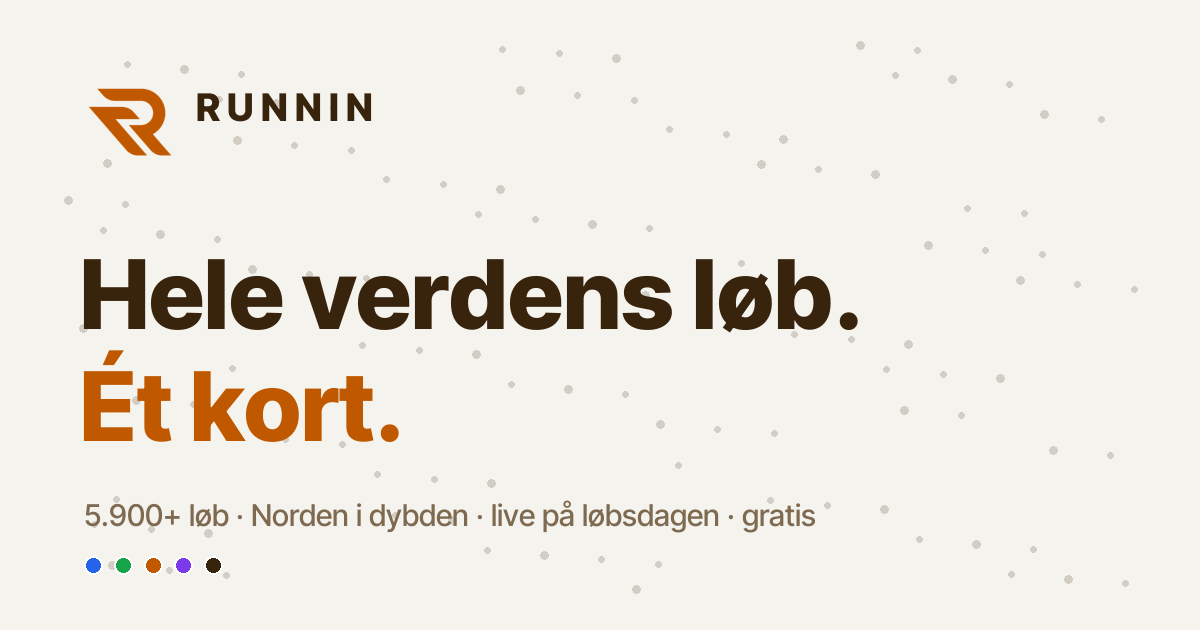
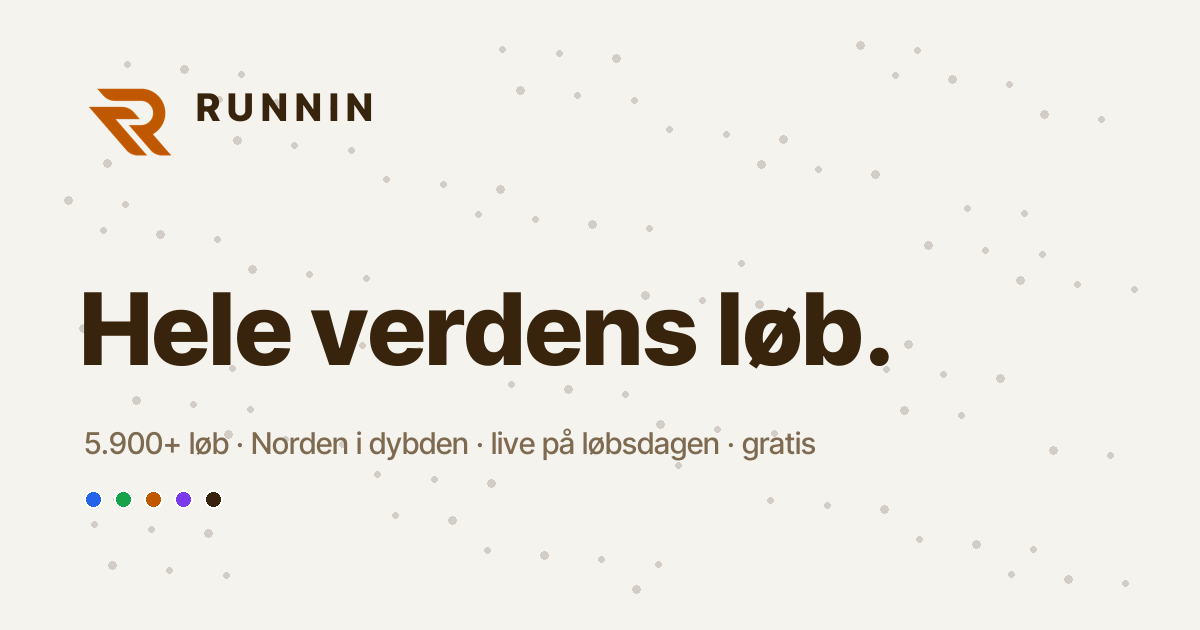
OG-billede uden 'Ét kort.' - én ren overskrift, og:title matcher (?v=3)

Changed region(s): [[0.0617, 0.3921, 0.74, 0.7238], [0.0617, 0.7841, 0.6783, 0.8444], [0.0617, 0.8746, 0.185, 0.9048]]

diff --git a/index.html b/index.html
@@ -6,9 +6,9 @@
 <!-- og-tags FØR alle scripts: WhatsApps preview-parser stopper ved script-tags -->
 <title>Runnin - Find dit næste løb</title>
 <meta name="description" content="Hele verdens løb på ét kort. Find dit næste marathon, halvmarathon, trail eller triathlon - og tilmeld dig på den officielle side.">
-<meta property="og:title" content="Runnin - Hele verdens løb. Ét kort.">
+<meta property="og:title" content="Runnin - Hele verdens løb.">
 <meta property="og:description" content="5.900+ kommende løb med dato, vejr og tilmeldingslink - Norden i dybden, live på løbsdagen, gratis.">
-<meta property="og:image" content="https://runnin.pages.dev/assets/og.png?v=2">
+<meta property="og:image" content="https://runnin.pages.dev/assets/og.png?v=3">
 <meta property="og:image:width" content="1200">
 <meta property="og:image:height" content="630">
 <meta property="og:image:type" content="image/png">

diff --git a/tools/byg-og.py b/tools/byg-og.py
@@ -31,13 +31,12 @@ mark.thumbnail((92, 92))
 img.paste(mark, (84, 76), mark)
 
 d.text((196, 84), "R U N N I N", font=font(38, 800), fill=INK)
-d.text((80, 236), "Hele verdens løb.", font=font(96, 800), fill=INK)
-d.text((80, 348), "Ét kort.", font=font(96, 800), fill=CARAMEL)
-d.text((84, 496), f"{ANTAL} løb · Norden i dybden · live på løbsdagen · gratis", font=font(30, 500), fill=MUTED)
+d.text((80, 268), "Hele verdens løb.", font=font(100, 800), fill=INK)
+d.text((84, 424), f"{ANTAL} løb · Norden i dybden · live på løbsdagen · gratis", font=font(30, 500), fill=MUTED)
 
 x = 84
 for c in TYPE_FARVER:
-    d.ellipse([x, 556, x+18, 574], fill=c, outline="#ffffff", width=2)
+    d.ellipse([x, 490, x+18, 508], fill=c, outline="#ffffff", width=2)
     x += 30
 
 img.save("assets/og.png", optimize=True)
